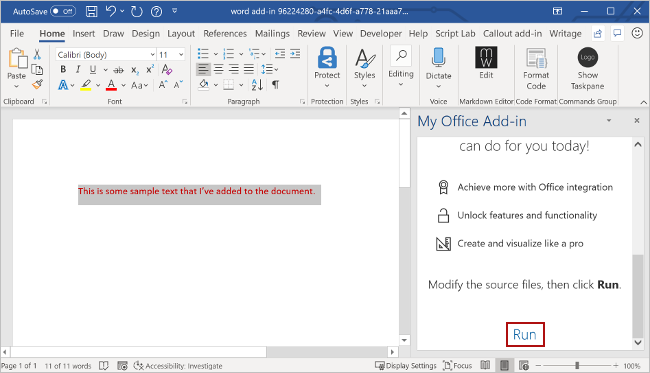
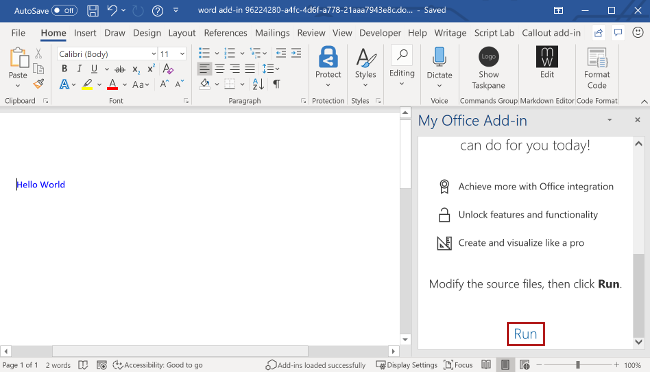
Update Word quick start to reflect new functionality and minor wording updates to other quick starts.

diff --git a/docs/quickstarts/word-quickstart.md b/docs/quickstarts/word-quickstart.md
@@ -284,13 +284,11 @@ In this article, you'll walk through the process of building a Word task pane ad
 
         When you run this command, the local web server will start. To use your add-in, open a new document in Word Online and then sideload your add-in by following the instructions in [Sideload Office Add-ins in Office Online](../testing/sideload-office-add-ins-for-testing.md#sideload-an-office-add-in-in-office-online).
 
-2. In Word, choose the **Home** tab, and then choose the **Show Taskpane** button in the ribbon to open the add-in task pane.
+2. In Word, open a new document, choose the **Home** tab, and then choose the **Show Taskpane** button in the ribbon to open the add-in task pane.
 
     ![Screenshot of the Word application with the Show Taskpane button highlighted](../images/word-quickstart-addin-2b.png)
 
-3. Add some text to the document and then select the text that you've added.
-
-4. Scroll to the bottom of the task pane and choose the **Run** link to set the color of the selected text to red.
+3. At the bottom of the task pane, choose the **Run** link to add the text "Hello World" to the document in blue font.
 
     ![Screenshot of the Word application with the task pane add-in loaded](../images/word-quickstart-addin-1c.png)
 

diff --git a/docs/quickstarts/onenote-quickstart.md b/docs/quickstarts/onenote-quickstart.md
@@ -48,7 +48,7 @@ The add-in project that you've created with the Yeoman generator contains sample
 
 ## Update the code
 
-In your code editor, open the **./src/taskpane/taskpane.js** file and add the following code within the **run** function. This code uses the OneNote JavaScript API to set the page title and add an outline to the body of the page.
+In your code editor, open the file **./src/taskpane/taskpane.js** and add the following code within the **run** function. This code uses the OneNote JavaScript API to set the page title and add an outline to the body of the page.
 
 ```js
 try {
@@ -99,7 +99,7 @@ try {
 
 4. From the **Home** tab, choose the **Show Taskpane** button in the ribbon. The add-in task pane opens in an iFrame next to the OneNote page.
 
-5. Scroll to the bottom of the task pane and choose the **Run** link to set the page title and add an outline to the body of the page.
+5. At the bottom of the task pane, choose the **Run** link to set the page title and add an outline to the body of the page.
 
     ![The OneNote add-in built from this walkthrough](../images/onenote-first-add-in-4.png)
 

diff --git a/docs/quickstarts/project-quickstart.md b/docs/quickstarts/project-quickstart.md
@@ -50,7 +50,7 @@ The add-in project that you've created with the Yeoman generator contains sample
 
 ## Update the code
 
-In your code editor, open the **./src/taskpane/taskpane.js** file and add the following code within the **run** function. This code uses the Office JavaScript API to set the `Name` field and `Notes` field of the selected task.
+In your code editor, open the file **./src/taskpane/taskpane.js** and add the following code within the **run** function. This code uses the Office JavaScript API to set the `Name` field and `Notes` field of the selected task.
 
 ```js
 var taskGuid;
@@ -107,7 +107,7 @@ Office.context.document.getSelectedTaskAsync(
 
 4. Select a single task within the project.
 
-5. Scroll to the bottom of the task pane and choose the **Run** link to rename the selected task and add notes to the selected task.
+5. At the bottom of the task pane, choose the **Run** link to rename the selected task and add notes to the selected task.
 
     ![Screenshot of the Project application with the task pane add-in loaded](../images/project-quickstart-addin-1.png)
 

diff --git a/docs/quickstarts/powerpoint-quickstart.md b/docs/quickstarts/powerpoint-quickstart.md
@@ -233,7 +233,7 @@ In this article, you'll walk through the process of building a PowerPoint task p
 
     ![A screenshot of PowerPoint with the Show Taskpane button highlighted](../images/powerpoint_quickstart_addin_1c.png)
 
-3. Scroll to the bottom of the task pane and choose the **Run** link to insert the text "Hello World" into the current slide.
+3. At the bottom of the task pane, choose the **Run** link to insert the text "Hello World" into the current slide.
 
     ![A screenshot of PowerPoint with an image of a dog and the text 'Hello World` displayed on the slide](../images/powerpoint_quickstart_addin_3c.png)
 

diff --git a/docs/tutorials/excel-tutorial-create-custom-functions.md b/docs/tutorials/excel-tutorial-create-custom-functions.md
@@ -150,7 +150,7 @@ Integrating data from the Web is a great way to extend Excel through custom func
     Before Excel can use your custom function, you need to describe it using metadata. You need to define the `id` used in the `associate` method previously, along with some other metadata.
 
 
-4. Open the **./src/functions/functions.json** file. Add the following JSON object to the 'functions' array and save the file.
+4. Open the file **./src/functions/functions.json**. Add the following JSON object to the 'functions' array and save the file.
 
     ```JSON
     {

diff --git a/docs/quickstarts/excel-quickstart-jquery.md b/docs/quickstarts/excel-quickstart-jquery.md
@@ -197,7 +197,7 @@ In this article, you'll walk through the process of building an Excel task pane 
 
 3. Select any range of cells in the worksheet.
 
-4. Scroll to the bottom of the task pane and choose the **Run** link to set the color of the selected range to yellow.
+4. At the bottom of the task pane, choose the **Run** link to set the color of the selected range to yellow.
 
     ![Excel add-in](../images/excel-quickstart-addin-3c.png)
 

diff --git a/docs/quickstarts/excel-quickstart-angular.md b/docs/quickstarts/excel-quickstart-angular.md
@@ -50,7 +50,7 @@ In this article, you'll walk through the process of building an Excel task pane 
 
 3. Select any range of cells in the worksheet.
 
-4. Scroll to the bottom of the task pane and choose the **Run** link to set the color of the selected range to yellow.
+4. At the bottom of the task pane, choose the **Run** link to set the color of the selected range to yellow.
 
     ![Excel add-in](../images/excel-quickstart-addin-3c.png)
 

diff --git a/docs/quickstarts/excel-quickstart-react.md b/docs/quickstarts/excel-quickstart-react.md
@@ -51,7 +51,7 @@ In this article, you'll walk through the process of building an Excel task pane 
 
 3. Select any range of cells in the worksheet.
 
-4. Scroll to the bottom of the task pane and choose the **Run** link to set the color of the selected range to yellow.
+4. At the bottom of the task pane, choose the **Run** link to set the color of the selected range to yellow.
 
     ![Excel add-in](../images/excel-quickstart-addin-3c.png)
 
